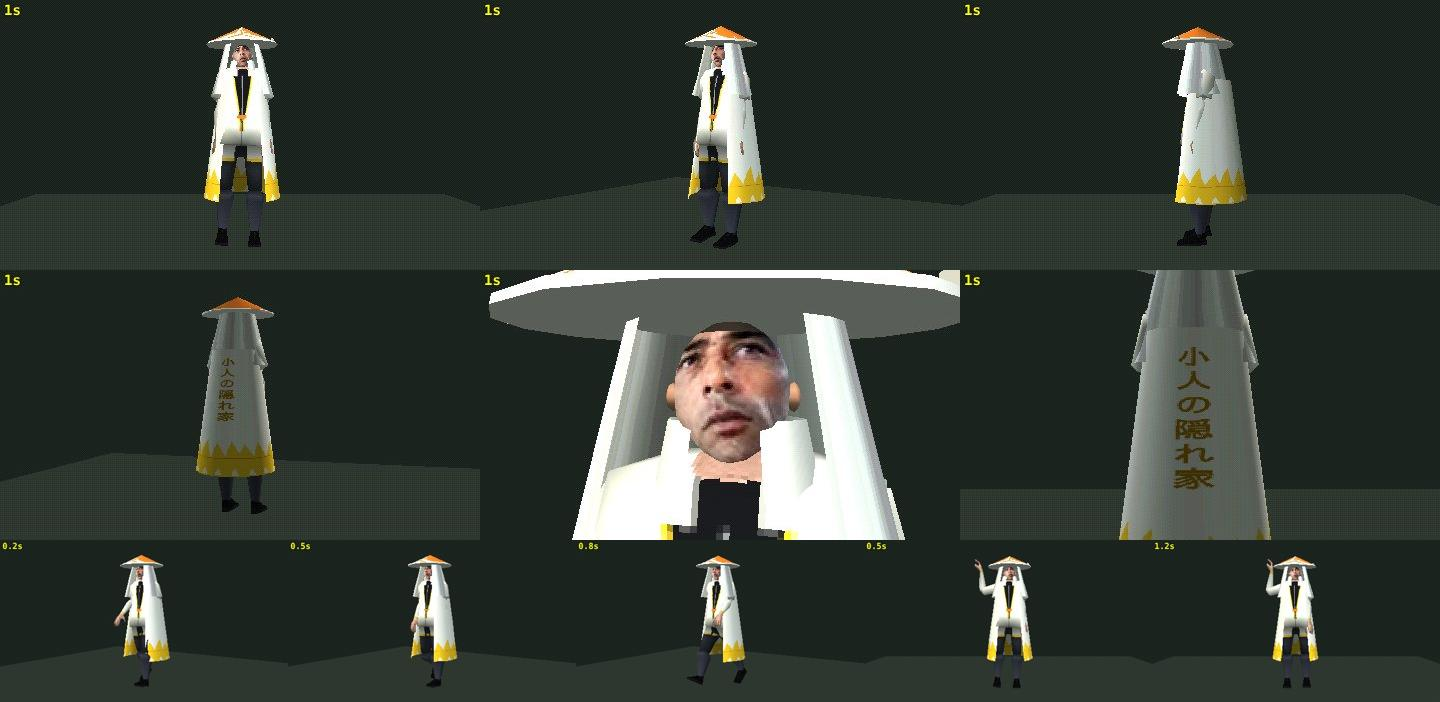
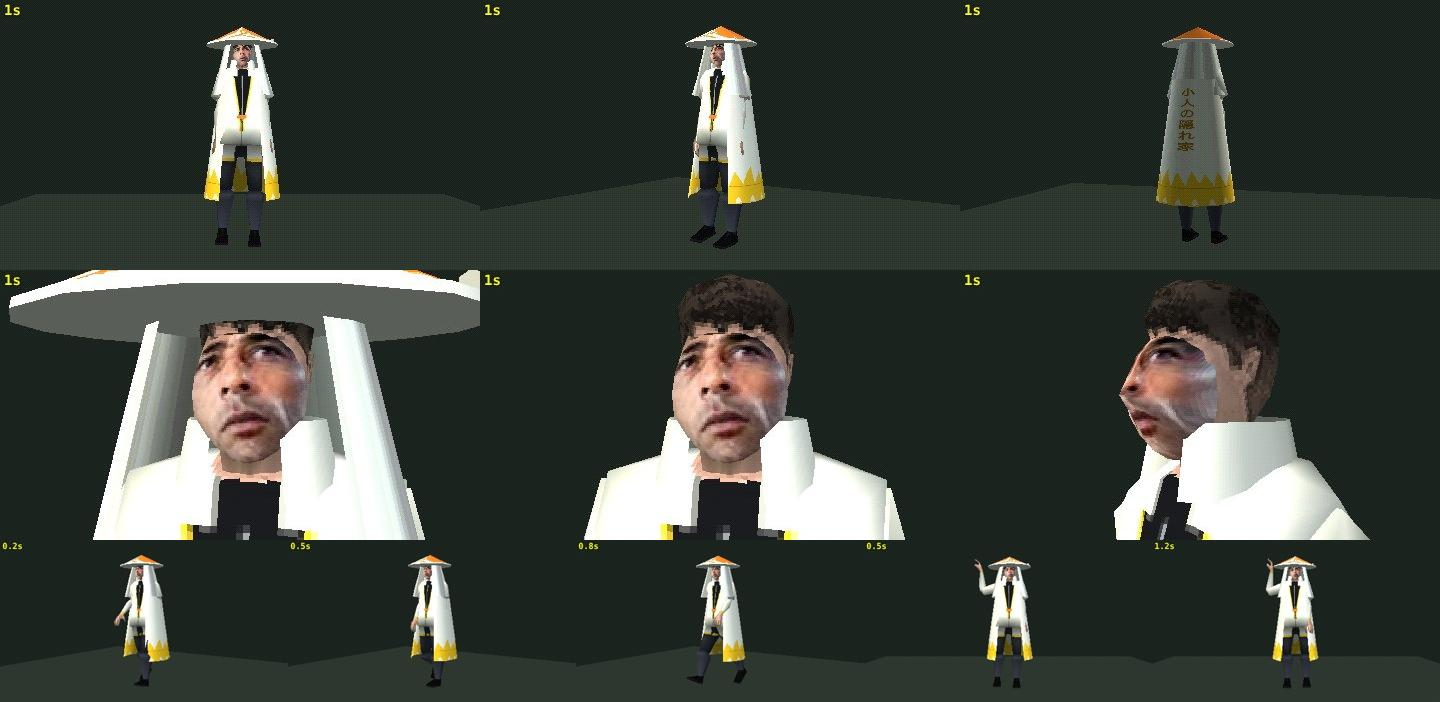
Dom: frente da cabeça (cabelo da testa + rosto) do primeiro modelo, da orelha pra trás o modelo do elenco
Claude-Session: https://claude.ai/code/session_01PVUNKmUDvaP2jpRAvnz1fM

diff --git a/lib/tgp.js b/lib/tgp.js
@@ -307,6 +307,7 @@ export async function cabecaDom(o = {}) {
   for (let t = 0; t < p.count; t += 3) {
     const zc = (p.getZ(t) + p.getZ(t + 1) + p.getZ(t + 2)) / 3, yc = (p.getY(t) + p.getY(t + 1) + p.getY(t + 2)) / 3, xc = (p.getX(t) + p.getX(t + 1) + p.getX(t + 2)) / 3, gi = zc > -10 && yc < 105 ? 0 : 1;
     if (o.soFrente && !(zc > 18 && yc < 100 && Math.abs(xc) < 96)) continue;      // só a FRENTE do rosto (máscara): da orelha pra trás fica a cabeça do corpo
+    if (o.meiaFrente && zc < (o.corteZ ?? -4)) continue;                          // METADE DA FRENTE (cabelo da testa + rosto): da linha das orelhas pra trás fica a cabeça do corpo
     for (let k = 0; k < 3; k++) { ord[gi].push(p.getX(t + k), p.getY(t + k), p.getZ(t + k)); nor[gi].push(nn.getX(t + k), nn.getY(t + k) * .5 + .2, nn.getZ(t + k)); }
   }
   const todos = [...ord[0], ...ord[1]], uvs = [];
@@ -314,7 +315,7 @@ export async function cabecaDom(o = {}) {
   const geo = new THREE.BufferGeometry(); geo.setAttribute('position', new THREE.Float32BufferAttribute(todos, 3)); geo.setAttribute('uv', new THREE.Float32BufferAttribute(uvs, 2));
   geo.setAttribute('normal', new THREE.Float32BufferAttribute([...nor[0], ...nor[1]], 3)); geo.addGroup(0, ord[0].length / 3, 0); geo.addGroup(ord[0].length / 3, ord[1].length / 3, 1);
   cab.add(new THREE.Mesh(geo, [matFoto, matCabelo]));
-  if (!o.soFrente) for (const sx of [-1, 1]) cab.add(P.esfera(1, matPele, { seg: 6, pos: [sx * 112, -8, -6], esc: [12, 26, 16] }));                // orelhas
+  if (!o.soFrente && !o.meiaFrente) for (const sx of [-1, 1]) cab.add(P.esfera(1, matPele, { seg: 6, pos: [sx * 112, -8, -6], esc: [12, 26, 16] }));                // orelhas
   const kc = (o.largura ?? .17) / 216; cab.scale.setScalar(kc);
 
   const animar = (t, { boca = 0, pisca = 0 } = {}) => {
@@ -378,11 +379,14 @@ export async function acessoriosDom(A, o = {}) {
   const malhaCab = o.cabecaOriginal ? null : A.malhas.find(m => /head/i.test(m.name) && m.isSkinnedMesh);
   if (malhaCab) {
     malhaCab.computeBoundingBox(); const bb = malhaCab.boundingBox.clone().applyMatrix4(malhaCab.matrixWorld), cen = bb.getCenter(new THREE.Vector3()), tam = bb.getSize(new THREE.Vector3());
-    const mascara = o.cabeca === 'mascara';                                         // padrão (escolha do diretor): a cabeça INTEIRA do primeiro modelo (rosto, cabelo curto, orelhas)
-    rosto = await cabecaDom({ largura: Math.min(tam.x, tam.z) * (o.escRosto ?? (mascara ? .95 : .98)), soFrente: mascara });
-    rosto.cab.position.copy(cen).add(new THREE.Vector3(0, o.dy ?? (mascara ? -.022 : -.01), 0).add(new THREE.Vector3(Math.sin(A.obj.rotation.y), 0, Math.cos(A.obj.rotation.y)).multiplyScalar(o.dz ?? (mascara ? .035 : .012))));
+    // padrão (escolha do diretor): a FRENTE da cabeça do primeiro modelo (cabelo da testa + rosto da foto); da linha das orelhas pra trás
+    // (nuca, cabelo de trás, orelhas) é a cabeça do corpo do elenco. ?cabeca=inteira (cabeça toda do 1º) · ?cabeca=mascara (só o rosto)
+    const mascara = o.cabeca === 'mascara', inteira = o.cabeca === 'inteira', meia = !mascara && !inteira;
+    rosto = await cabecaDom({ largura: (meia ? tam.x : Math.min(tam.x, tam.z)) * (o.escRosto ?? (mascara ? .95 : meia ? .94 : .98)), soFrente: mascara, meiaFrente: meia, corteZ: o.corteZ ?? 10 });
+    rosto.cab.position.copy(cen).add(new THREE.Vector3(0, o.dy ?? (mascara ? -.022 : -.012), 0).add(new THREE.Vector3(Math.sin(A.obj.rotation.y), 0, Math.cos(A.obj.rotation.y)).multiplyScalar(o.dz ?? (mascara ? .035 : meia ? .03 : .012))));
     rosto.cab.rotation.y = A.obj.rotation.y; A.obj.parent.add(rosto.cab); cab.attach(rosto.cab);
-    if (!mascara) { malhaCab.visible = false; topo = cen.y + rosto.RY * rosto.kc + .04; }   /* a cabeça do corpo (e o cabelo dela) some */
+    if (inteira) malhaCab.visible = false;   /* cabeça inteira do 1º: a do corpo some */
+    if (!mascara) topo = cen.y + rosto.RY * rosto.kc + .04;
     c = cen;
   }
   const g = new THREE.Group(); g.position.set(c.x, topo - .045, c.z + .005); A.obj.parent.add(g);
@@ -419,6 +423,7 @@ export async function acessoriosDom(A, o = {}) {
   const gola = new THREE.Mesh(new THREE.CylinderGeometry(.1, .12, .1, 14, 1, true, Math.PI / 2 + .45, Math.PI * 2 - .9), P.mat({ cor: '#ece8de', lados: THREE.DoubleSide }));
   gola.rotation.y = -Math.PI / 2; const pesc = A.osso('spine.004'), pp = pesc.getWorldPosition(new THREE.Vector3()), golaG = new THREE.Group();
   golaG.position.set(pp.x, pp.y + .01, pp.z - .005); golaG.rotation.y = A.obj.rotation.y; golaG.add(gola); A.obj.parent.add(golaG); pesc.attach(golaG);
+  if (o.semVeu) { g.visible = false; capaG.visible = false; }                    // inspeção da cabeça (sem chapéu, véu e capa)
   return { chapeu: g, veu, rosto, atualizar: (t, f = {}) => { veu.rotation.z = Math.sin(t * .9) * .015; rosto?.animar(t, f); } };
 }
 

diff --git a/videos/98-dom/index.html b/videos/98-dom/index.html
@@ -16,7 +16,7 @@ window.SETUP = async () => {
   // ?base=procedural: o modelo antigo (corpo simples + cabeça com a foto). Padrão: o mesmo modelo base do elenco (JashiPSX), com animações
   const jashi = q.get('base') !== 'procedural';
   let D, c, A;
-  if (jashi) { A = await E4.ator('dom'); S.scene.add(A.obj); A.pose(q.get('clip') || 'idle', +(q.get('t') || 1)); D = await T.acessoriosDom(A, { cabecaOriginal: q.get('cabeca') === 'elenco', cabeca: q.get('cabeca') }); }
+  if (jashi) { A = await E4.ator('dom'); S.scene.add(A.obj); A.pose(q.get('clip') || 'idle', +(q.get('t') || 1)); D = await T.acessoriosDom(A, { cabecaOriginal: q.get('cabeca') === 'elenco', cabeca: q.get('cabeca'), semVeu: q.get('semveu') === '1', ...(q.get('esc') ? { escRosto: +q.get('esc') } : {}), ...(q.get('dz') ? { dz: +q.get('dz') } : {}), ...(q.get('corte') ? { corteZ: +q.get('corte') } : {}) }); }
   else { D = await T.dom(); S.scene.add(D.obj); c = D.corpo; c.braco('L', [.18, -1, -.02], [.1, -1, .12], [0, -1, .1]); c.braco('R', [-.18, -1, -.02], [-.1, -1, .12], [0, -1, .1]); c.guardar(); D.assentar(); }
   const b = new THREE.Box3().setFromObject(jashi ? A.obj : D.obj), h = b.max.y, cab = jashi ? A.osso('spine.005').getWorldPosition(new THREE.Vector3()).add(new THREE.Vector3(0, .1, 0)) : D.cabeca.getWorldPosition(new THREE.Vector3());
   const V = { frente: [0, h * .55, 4.4, 0, h * .5, 0, 30], tres: [2.5, h * .62, 3.6, 0, h * .5, 0, 30], lado: [4.4, h * .55, 0, 0, h * .5, 0, 30],

diff --git a/material/producao/personagens/dom/LEIA.md b/material/producao/personagens/dom/LEIA.md
@@ -6,9 +6,10 @@
   Casaco branco de manga comprida aberto em V, blusa preta de zíper, fivela laranja, gola alta, calça escura, sapato preto.
 - Montagem e animação: `CALCA=1 blender ... montar_jashi.py -- texturas/dom_512.png dom.blend` → `animar_jashi.py` → `exportar_glb.py`
   (10 animações: idle walk run talk wave sit cower attack hit death). Arquivo 3D fora do git (licença do JashiPSX).
-- "Frankenstein" (escolha do diretor): corpo, roupa e animações do modelo do elenco + a CABEÇA INTEIRA do primeiro modelo
-  (rosto da foto, cabelo curto escuro, orelhas — `T.cabecaDom()`), presa ao osso da cabeça; a cabeça do corpo (e o cabelo dela) fica escondida.
-  Variações na folha: `?cabeca=mascara` (só a frente do rosto sobre a cabeça do elenco) · `?cabeca=elenco` (cabeça pintada do elenco).
+- "Frankenstein" (escolha do diretor): corpo, roupa e animações do modelo do elenco; na cabeça, a FRENTE (cabelo da testa + rosto da foto)
+  vem do primeiro modelo (`T.cabecaDom({ meiaFrente: true })`, corte na linha das orelhas) e da orelha pra trás (nuca, cabelo de trás,
+  orelhas) é a cabeça do elenco. Encaixe: largura 0,94 da cabeça, 3 cm à frente (o nariz do elenco não atravessa).
+  Folha: `?semveu=1` (sem chapéu/véu/capa, pra ver a emenda) · `?cabeca=inteira` · `?cabeca=mascara` · `?cabeca=elenco` · ajuste fino `&esc=&dz=&corte=`.
 - Detalhes amarelos na roupa: debrum da abertura do casaco, punhos e barra.
 - Capa de Hokage (`acessoriosDom`): branca, chamas amarelas na barra, "小人の隠れ家" (kobito no kakurega, "o esconderijo/toca do anão") na vertical
   nas costas (fonte IPAGothic), gola alta; presa ao tronco (spine.003).
